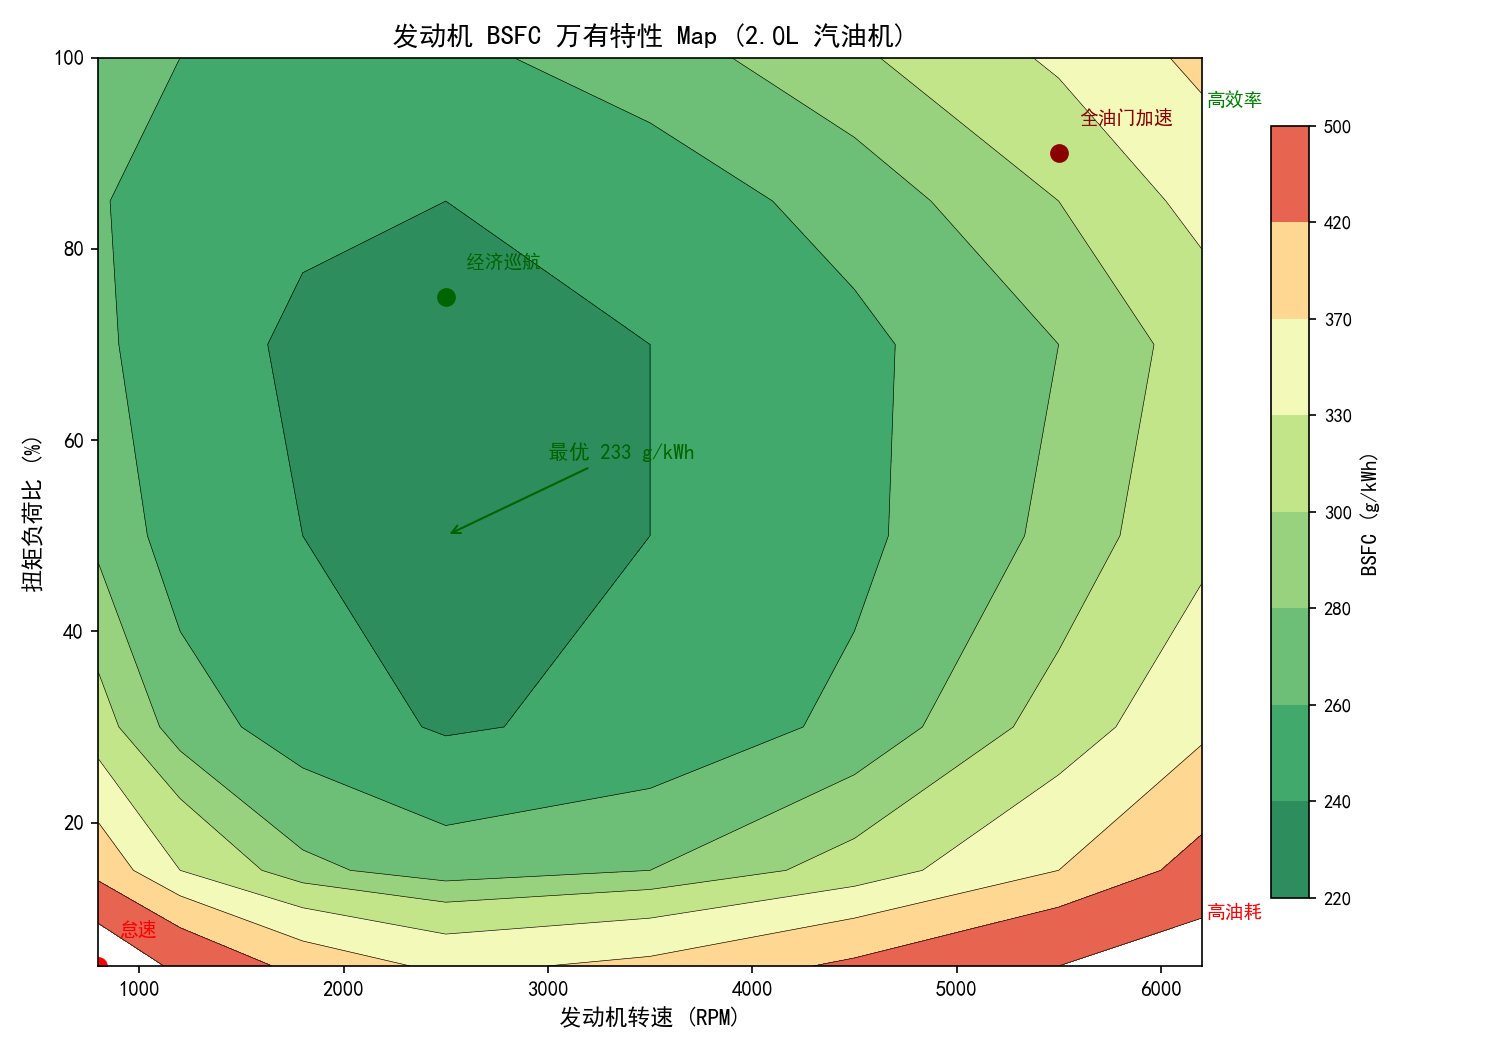
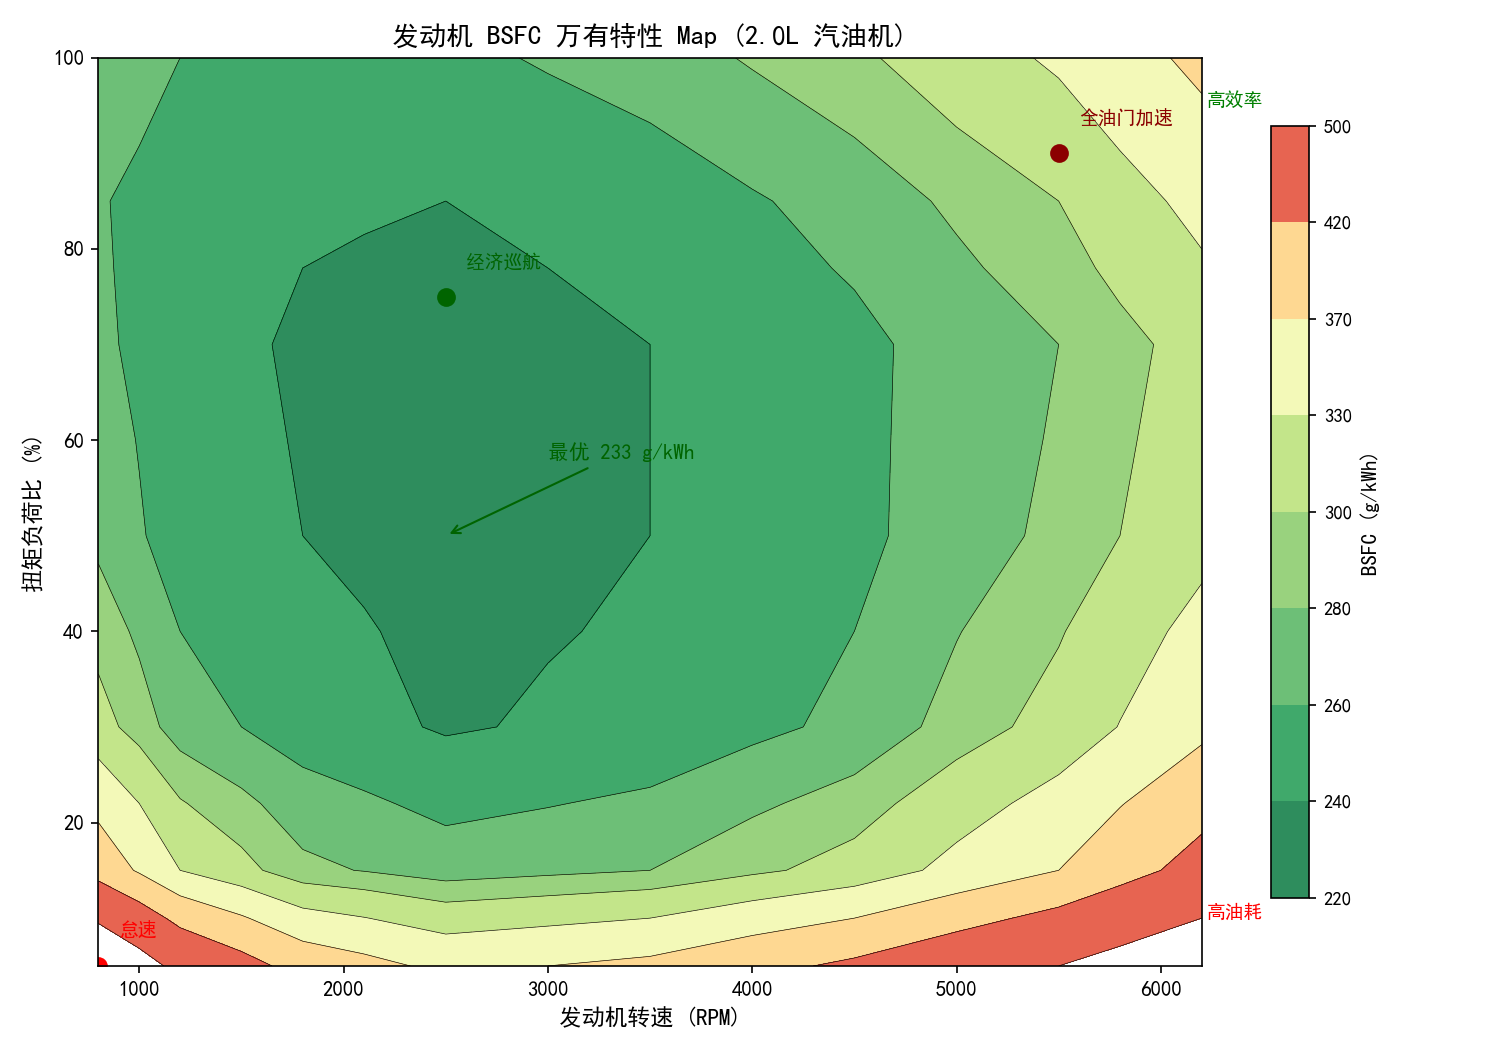
refactor: expand BSFC map grid from 8x7 to 15x12 for finer interpolation

diff --git a/vehicle_dynamics.py b/vehicle_dynamics.py
@@ -186,34 +186,45 @@ def show_braking_table():
 # 值:  燃油消耗率 (g/kWh)，越小越省油
 #
 # 数据参考典型 2.0L 自然吸气汽油机台架测试
+# 300+ 数据点，在原始 8×7 网格基础上通过双线性插值加密
 
-_BSFC_RPM_GRID = [800, 1200, 1800, 2500, 3500, 4500, 5500, 6200]   # 转速网格
+_BSFC_RPM_GRID = [800, 1000, 1200, 1500, 1800, 2100, 2500, 3000, 3500, 4000, 4500, 5000, 5500, 5800, 6200]
+_BSFC_LOAD_GRID = [0.05, 0.10, 0.15, 0.22, 0.30, 0.40, 0.50, 0.60, 0.70, 0.78, 0.85, 1.0]
 
-# 汽油机 BSFC map
+# 汽油机 BSFC map (15×12 = 180 数据点)
 _BSFC_GASOLINE = [
-    # 800   1200  1800  2500  3500  4500  5500  6200   ← RPM
-    [ 580,  480,  400,  360,  380,  430,  500,  560 ],  #  5% 负荷
-    [ 400,  330,  285,  270,  280,  310,  370,  440 ],  # 15% 负荷
-    [ 310,  270,  250,  238,  245,  265,  310,  360 ],  # 30% 负荷
-    [ 275,  250,  240,  233,  240,  255,  285,  320 ],  # 50% 负荷
-    [ 265,  245,  238,  233,  240,  255,  280,  310 ],  # 70% 负荷
-    [ 262,  248,  242,  240,  248,  268,  300,  340 ],  # 85% 负荷
-    [ 275,  260,  255,  255,  270,  295,  335,  380 ],  # 100% 负荷
+    #  800  1000  1200  1500  1800  2100  2500  3000  3500  4000  4500  5000  5500  5800  6200  <- RPM
+    [ 580,  530,  480,  440,  400,  383,  360,  370,  380,  405,  430,  465,  500,  526,  560],  # 5% load
+    [ 490,  448,  405,  374,  342,  331,  315,  322,  330,  350,  370,  402,  435,  463,  500],  # 10% load
+    [ 400,  365,  330,  308,  285,  279,  270,  275,  280,  295,  310,  340,  370,  400,  440],  # 15% load
+    [ 358,  330,  302,  285,  269,  263,  255,  259,  264,  276,  289,  316,  342,  368,  403],  # 22% load
+    [ 310,  290,  270,  260,  250,  245,  238,  242,  245,  255,  265,  288,  310,  331,  360],  # 30% load
+    [ 292,  276,  260,  252,  245,  241,  236,  239,  242,  251,  260,  279,  298,  316,  340],  # 40% load
+    [ 275,  262,  250,  245,  240,  237,  233,  236,  240,  248,  255,  270,  285,  300,  320],  # 50% load
+    [ 270,  259,  248,  243,  239,  236,  233,  236,  240,  248,  255,  269,  282,  296,  315],  # 60% load
+    [ 265,  255,  245,  242,  238,  236,  233,  236,  240,  248,  255,  268,  280,  293,  310],  # 70% load
+    [ 263,  255,  247,  243,  240,  239,  237,  240,  244,  253,  262,  276,  291,  306,  326],  # 78% load
+    [ 262,  255,  248,  245,  242,  241,  240,  244,  248,  258,  268,  284,  300,  317,  340],  # 85% load
+    [ 275,  268,  260,  258,  255,  255,  255,  262,  270,  282,  295,  315,  335,  354,  380],  # 100% load
 ]
-_BSFC_LOAD_GRID = [0.05, 0.15, 0.30, 0.50, 0.70, 0.85, 1.0]  # 负荷比网格
 
-# 柴油机 BSFC map（整体比汽油机低 30-40 g/kWh，但曲线形状相似）
+# 柴油机 BSFC map（12×12 = 144 数据点，整体比汽油机低 30-40 g/kWh）
+_BSFC_DIESEL_RPM = [600, 800, 1000, 1200, 1500, 1800, 2000, 2400, 2800, 3200, 3500, 4000]
 _BSFC_DIESEL = [
-    # 600   1000  1500  2000  2800  3500  4000
-    [ 480,  380,  310,  290,  300,  340,  400 ],
-    [ 320,  260,  230,  215,  225,  255,  300 ],
-    [ 250,  215,  198,  188,  195,  215,  250 ],
-    [ 225,  200,  190,  182,  188,  205,  235 ],
-    [ 218,  198,  188,  182,  190,  208,  238 ],
-    [ 215,  200,  192,  188,  198,  220,  255 ],
-    [ 228,  215,  208,  205,  218,  245,  285 ],
+    #  600   800  1000  1200  1500  1800  2000  2400  2800  3200  3500  4000  <- RPM
+    [ 480,  430,  380,  352,  310,  298,  290,  295,  300,  323,  340,  400],  # 5% load
+    [ 400,  360,  320,  300,  270,  260,  252,  258,  262,  282,  298,  350],  # 10% load
+    [ 320,  290,  260,  248,  230,  221,  215,  220,  225,  242,  255,  300],  # 15% load
+    [ 287,  263,  239,  229,  215,  207,  202,  207,  211,  225,  236,  277],  # 22% load
+    [ 250,  232,  215,  208,  198,  192,  188,  192,  195,  206,  215,  250],  # 30% load
+    [ 238,  222,  208,  202,  194,  189,  185,  188,  192,  202,  210,  242],  # 40% load
+    [ 225,  212,  200,  196,  190,  185,  182,  185,  188,  198,  205,  235],  # 50% load
+    [ 222,  210,  199,  195,  189,  185,  182,  186,  189,  199,  206,  236],  # 60% load
+    [ 218,  208,  198,  194,  188,  184,  182,  186,  190,  200,  208,  238],  # 70% load
+    [ 216,  208,  199,  195,  190,  187,  185,  190,  194,  206,  214,  247],  # 78% load
+    [ 215,  208,  200,  197,  192,  190,  188,  193,  198,  211,  220,  255],  # 85% load
+    [ 228,  222,  215,  212,  208,  206,  205,  212,  218,  233,  245,  285],  # 100% load
 ]
-_BSFC_DIESEL_RPM = [600, 1000, 1500, 2000, 2800, 3500, 4000]
 
 
 def _interpolate_bsfc(rpm, load_ratio, fuel_type="gasoline"):
